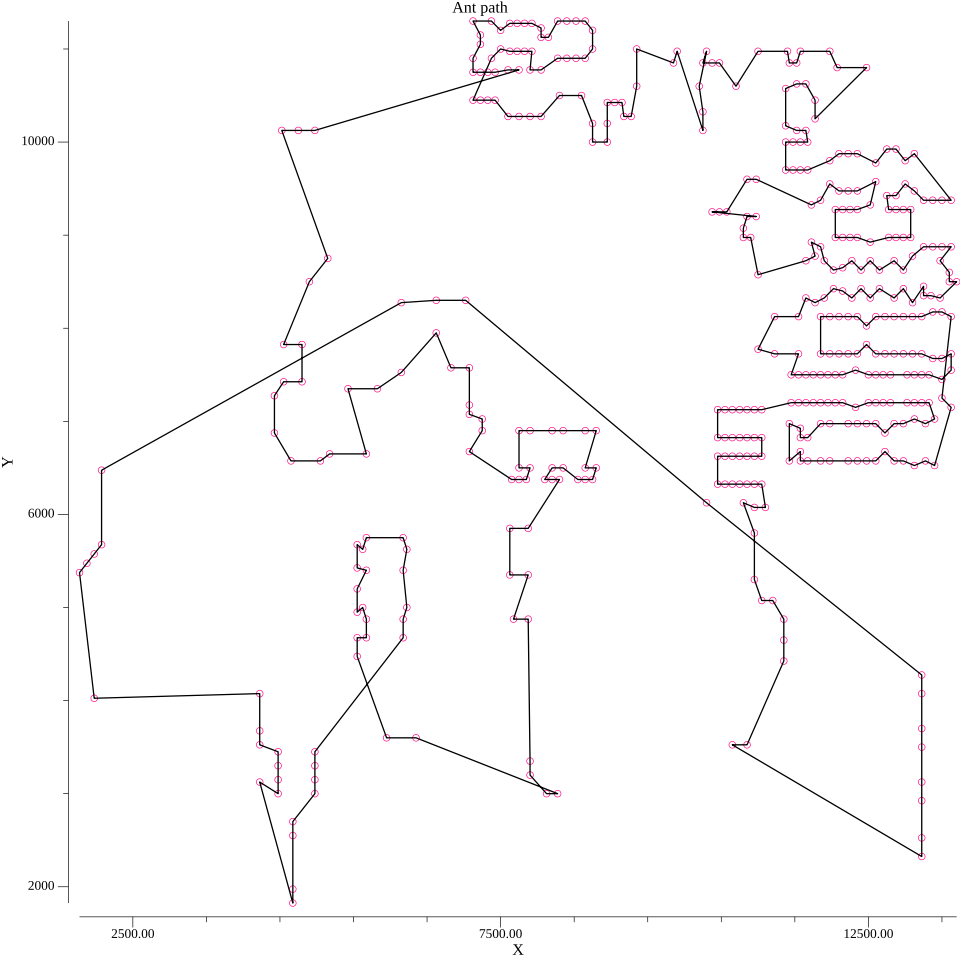
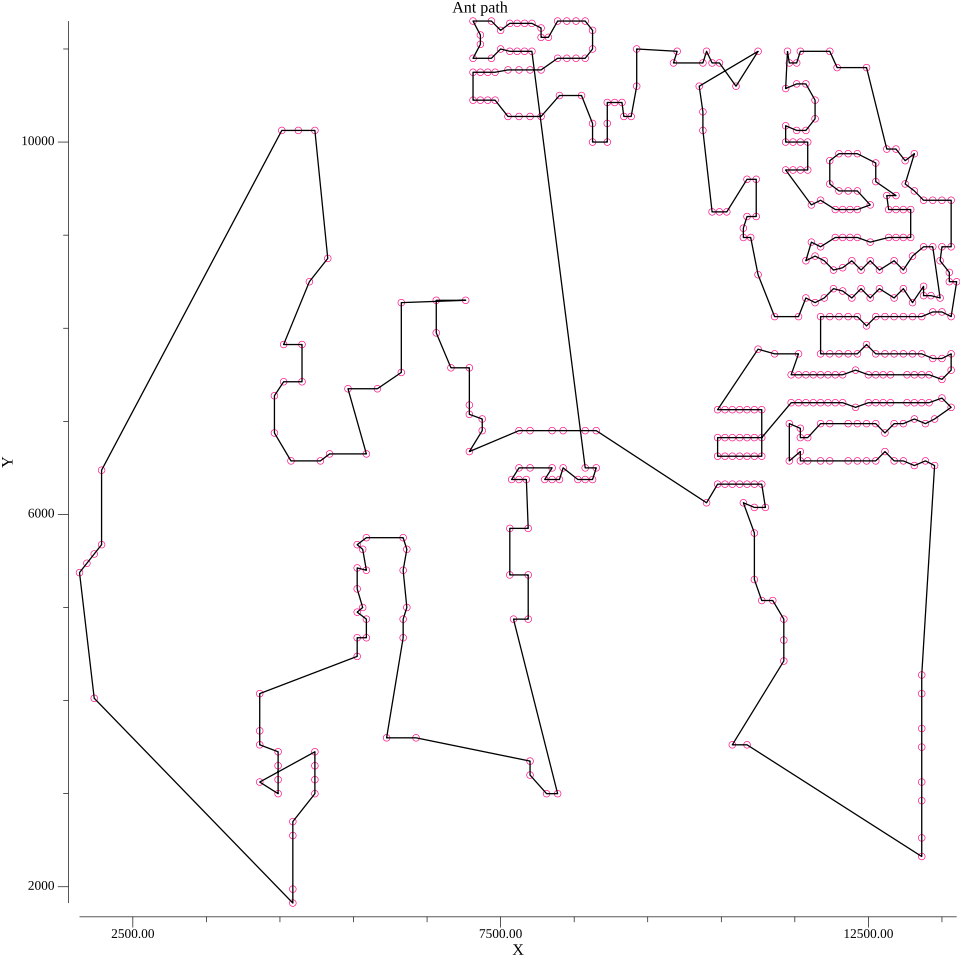
add error logs, add D param, fix distance calculation

diff --git a/ttp/loader.go b/ttp/loader.go
@@ -13,17 +13,32 @@ import (
 
 var findDimesion = regexp.MustCompile(`(?m)DIMENSION:\s(\d+)`)
 
-func LoadPorblem(filePath string) []aco.City {
-	file, _ := os.Open(filePath)
+func LoadPorblem(filePath string) ([]aco.City, error) {
+	file, err1 := os.Open(filePath)
+
+	if err1 != nil {
+		return nil, err1
+	}
+
 	fileScanner := bufio.NewScanner(file)
 	fileScanner.Split(bufio.ScanLines)
 
-	dim, _ := findDimSize(fileScanner)
-	cities, _ := loadCities(fileScanner, dim)
+	dim, err2 := findDimSize(fileScanner)
+
+	if err2 != nil {
+		return nil, err2
+	}
+
+	cities, err3 := loadCities(fileScanner, dim)
+
+	
+	if err2 != nil {
+		return nil, err3
+	}
 
 	file.Close()
 
-	return cities
+	return cities, nil
 }
 
 func loadCities(scanner *bufio.Scanner, citiesCount int) ([]aco.City, error) {
@@ -40,8 +55,18 @@ func loadCities(scanner *bufio.Scanner, citiesCount int) ([]aco.City, error) {
 	for scanner.Scan() && citiesLoaded < citiesCount {
 		line := scanner.Text()
 		tokens := strings.Split(line, "\t")
-		x, _ := strconv.ParseFloat(tokens[1], 64)
-		y, _ := strconv.ParseFloat(tokens[2], 64)
+
+		x, err1 := strconv.ParseFloat(tokens[1], 64)
+
+		if err1 != nil {
+			return nil, fmt.Errorf("failed to parse cities data: %v", err1)
+		}
+
+		y, err2 := strconv.ParseFloat(tokens[2], 64)
+
+		if err2 != nil {
+			return nil, fmt.Errorf("failed to parse cities data: %v", err2)
+		}
 
 		cities[citiesLoaded] = aco.City{
 			X: x,
@@ -67,5 +92,5 @@ func findDimSize(scanner *bufio.Scanner) (int, error) {
 		}
 	}
 
-	return 0, fmt.Errorf("dimension not found")
+	return 0, fmt.Errorf("dimension not found in header of file")
 }

diff --git a/aco/aco.go b/aco/aco.go
@@ -13,6 +13,7 @@ type AcoParams struct {
 	Alpha              float64
 	Beta               float64
 	Q                  float64
+	D                  float64 // greater values makes small changes more significant
 	DegradationFactor  float64
 	AntsPopulationSize int
 }
@@ -52,7 +53,7 @@ func (a *Aco) RunAco(iterations int) {
 
 		// update pheromone
 		for _, ant := range ants {
-			pheromoneDelta := a.params.Q / ant.Distance
+			pheromoneDelta := math.Pow(a.params.Q/ant.Distance, a.params.D)
 
 			for k := 1; k < len(ant.Path); k++ {
 				city1 := ant.Path[k-1]
@@ -118,6 +119,8 @@ func (a *Aco) antTraverse(startCityIndex int) *Ant {
 		// remove visited city
 		_, citiesToVisitIndexes = helpers.RemoveFromArray(citiesToVisitIndexes, *pickedCityIndex)
 	}
+
+	ant.Distance += *a.enviroment.GetCitiesDistance(ant.Path[0], ant.Path[len(ant.Path)-1])
 
 	return &ant
 }

diff --git a/main.go b/main.go
@@ -28,17 +28,24 @@ func main() {
 func runAco(fileName string) {
 	rootDir, _ := os.Getwd()
 	path := filepath.Join(rootDir, "data", fileName)
-	cities := ttp.LoadPorblem(path)
+	cities, err := ttp.LoadPorblem(path)
+
+	if err != nil {
+		log.Printf("Failed to load file %v. cause: %v", fileName, err)
+		return
+	}
+
 	acoParams := aco.AcoParams{
 		Alpha:              1,
-		Beta:               1,
-		Q:                  10_000,
-		DegradationFactor:  0.1,
-		AntsPopulationSize: 10,
+		Beta:               2,
+		Q:                  20_000,
+		D:                  13,
+		DegradationFactor:  0.3,
+		AntsPopulationSize: 40,
 	}
 
 	solver := aco.NewAco(acoParams, cities)
-	solver.RunAco(5000)
+	solver.RunAco(5_000)
 
 	solver.PlotAnt(solver.GetBestAnt(), fmt.Sprintf("doc/results/result_of_%v", fileName))
 }

diff --git a/ttp/loader_test.go b/ttp/loader_test.go
@@ -9,7 +9,12 @@ import (
 func TestLoadPorblem(t *testing.T) {
 	rootDir, _ := os.Getwd()
 	path := filepath.Join(filepath.Dir(rootDir), "data", "trivial_0.ttp")
-	cities := LoadPorblem(path)
+	cities, err := LoadPorblem(path)
+
+	if err != nil {
+		t.Error(err)
+	}
+
 	if len(cities) != 10 {
 		t.Errorf("Failed to laod cities. Total cities loaded %v, expected to load %v", len(cities), 10)
 	}
